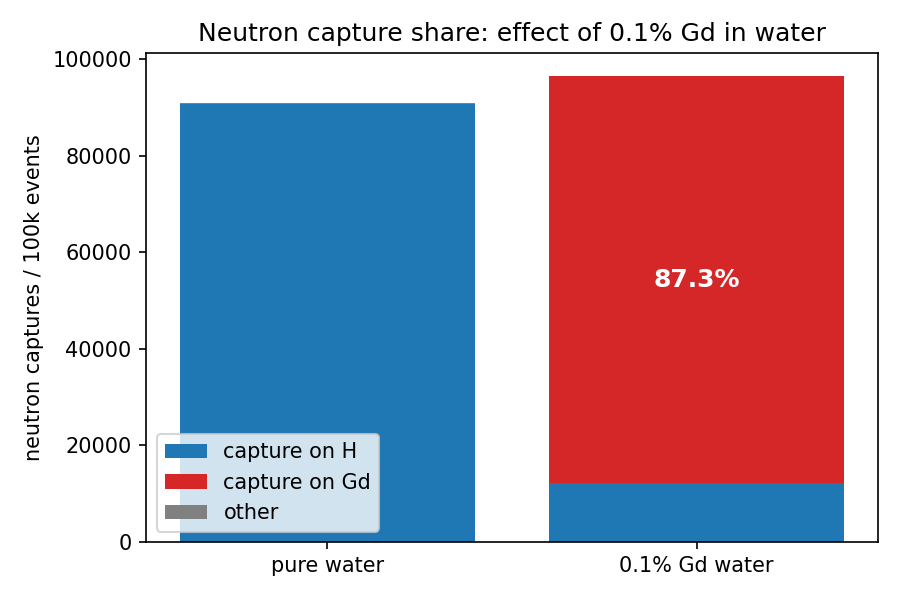
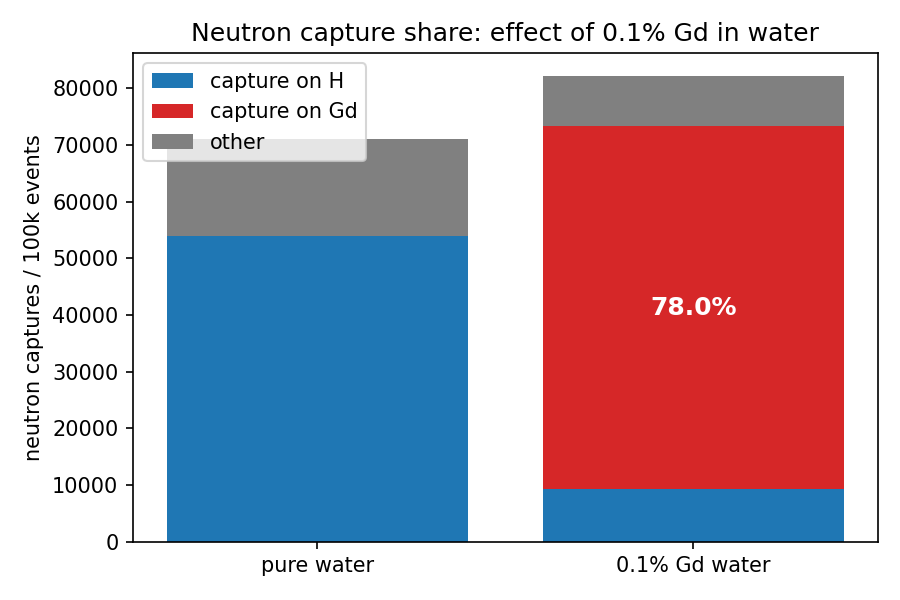
new macros for clean code practices, hardcoded detector information changed to macro

diff --git a/src/NeuDetectorConstruction.cc b/src/NeuDetectorConstruction.cc
@@ -15,9 +15,12 @@
 #include "G4RunManager.hh"
 #include "G4SolidStore.hh"
 #include "G4Sphere.hh"
+#include "G4Tubs.hh"
 #include "G4SystemOfUnits.hh"
 #include "G4UIcommand.hh"
 #include "G4UnitsTable.hh"
+
+#include <algorithm>
 
 NeuDetectorConstruction::NeuDetectorConstruction()
 {
@@ -50,6 +53,11 @@ void NeuDetectorConstruction::DefineMaterials()
   H2O->AddElement(H, natoms = 2);
   H2O->AddElement(O, natoms = 1);
   H2O->GetIonisation()->SetMeanExcitationEnergy(78.0 * eV);
+
+  fSteel = G4NistManager::Instance()->FindOrBuildMaterial("G4_STAINLESS-STEEL");
+  fLiquidArgon = G4NistManager::Instance()->FindOrBuildMaterial("G4_lAr");
+  if (!fLiquidArgon)
+    fLiquidArgon = G4NistManager::Instance()->FindOrBuildMaterial("G4_Ar");
 
   DefineGdMaterial(0.001);
 
@@ -117,10 +125,25 @@ G4VPhysicalVolume* NeuDetectorConstruction::ConstructVolumes()
   G4LogicalVolume* lWorld = new G4LogicalVolume(sWorld, fWorldMat, "World");
   fPWorld = new G4PVPlacement(0, G4ThreeVector(), lWorld, "World", 0, false, 0);
 
-  // absorber: full sphere of fRadius (default 30 cm) of the selected material
-  G4Sphere* sAbsor = new G4Sphere("Absorber", 0., fRadius, 0., twopi, 0., pi);
+  // Simplified GERDA-like water tank. The selected material is applied only
+  // to the water volume; the cryostat remains stainless steel/LAr.
+  G4Tubs* sAbsor = new G4Tubs("WaterTank", 0., fTankRadius, 0.5 * fTankHeight,
+                              0., twopi);
   fLAbsor = new G4LogicalVolume(sAbsor, fMaterial, fMaterial->GetName());
   new G4PVPlacement(0, G4ThreeVector(), fLAbsor, fMaterial->GetName(), lWorld, false, 0);
+
+  const G4double cryostatWall = 1. * cm;
+  G4Tubs* sCryostat = new G4Tubs("Cryostat", 0., fCryostatRadius,
+                                 0.5 * fCryostatHeight, 0., twopi);
+  G4LogicalVolume* lCryostat = new G4LogicalVolume(sCryostat, fSteel, "Cryostat");
+  new G4PVPlacement(0, G4ThreeVector(), lCryostat, "Cryostat", fLAbsor, false, 0);
+
+  G4Tubs* sCryostatLAr = new G4Tubs("CryostatLAr", 0., fCryostatRadius - cryostatWall,
+                                    0.5 * fCryostatHeight - cryostatWall, 0., twopi);
+  G4LogicalVolume* lCryostatLAr =
+    new G4LogicalVolume(sCryostatLAr, fLiquidArgon, "CryostatLAr");
+  new G4PVPlacement(0, G4ThreeVector(), lCryostatLAr, "CryostatLAr",
+                    lCryostat, false, 0);
 
   PrintParameters();
   return fPWorld;
@@ -128,8 +151,12 @@ G4VPhysicalVolume* NeuDetectorConstruction::ConstructVolumes()
 
 void NeuDetectorConstruction::PrintParameters()
 {
-  G4cout << "\n The Absorber is " << G4BestUnit(fRadius, "Length") << " of "
-         << fMaterial->GetName() << "\n \n" << fMaterial << G4endl;
+  G4cout << "\n The water tank is " << G4BestUnit(fTankRadius, "Length")
+         << " radius x " << G4BestUnit(fTankHeight, "Length") << " height of "
+         << fMaterial->GetName() << "\n The cryostat is "
+         << G4BestUnit(fCryostatRadius, "Length") << " radius x "
+         << G4BestUnit(fCryostatHeight, "Length") << " height\n\n"
+         << fMaterial << G4endl;
 }
 
 void NeuDetectorConstruction::SetMaterial(G4String materialChoice)
@@ -164,7 +191,32 @@ void NeuDetectorConstruction::SetGdFraction(G4double fraction)
 
 void NeuDetectorConstruction::SetRadius(G4double value)
 {
+  SetTankRadius(value);
+}
+
+void NeuDetectorConstruction::SetTankRadius(G4double value)
+{
+  fTankRadius = value;
   fRadius = value;
-  fWorldSize = 1.1 * fRadius;
+  fWorldSize = 1.1 * std::max(fTankRadius, 0.5 * fTankHeight);
+  G4RunManager::GetRunManager()->ReinitializeGeometry();
+}
+
+void NeuDetectorConstruction::SetTankHeight(G4double value)
+{
+  fTankHeight = value;
+  fWorldSize = 1.1 * std::max(fTankRadius, 0.5 * fTankHeight);
+  G4RunManager::GetRunManager()->ReinitializeGeometry();
+}
+
+void NeuDetectorConstruction::SetCryostatRadius(G4double value)
+{
+  fCryostatRadius = value;
+  G4RunManager::GetRunManager()->ReinitializeGeometry();
+}
+
+void NeuDetectorConstruction::SetCryostatHeight(G4double value)
+{
+  fCryostatHeight = value;
   G4RunManager::GetRunManager()->ReinitializeGeometry();
 }

diff --git a/src/DetectorMessenger.cc b/src/DetectorMessenger.cc
@@ -29,6 +29,34 @@ DetectorMessenger::DetectorMessenger(NeuDetectorConstruction* Det) : fDetector(D
   fSizeCmd->SetUnitCategory("Length");
   fSizeCmd->AvailableForStates(G4State_PreInit, G4State_Idle);
 
+  fTankRadiusCmd = new G4UIcmdWithADoubleAndUnit("/testhadr/det/setTankRadius", this);
+  fTankRadiusCmd->SetGuidance("Set cylindrical water-tank radius.");
+  fTankRadiusCmd->SetParameterName("radius", false);
+  fTankRadiusCmd->SetRange("radius>0.");
+  fTankRadiusCmd->SetUnitCategory("Length");
+  fTankRadiusCmd->AvailableForStates(G4State_PreInit, G4State_Idle);
+
+  fTankHeightCmd = new G4UIcmdWithADoubleAndUnit("/testhadr/det/setTankHeight", this);
+  fTankHeightCmd->SetGuidance("Set cylindrical water-tank height.");
+  fTankHeightCmd->SetParameterName("height", false);
+  fTankHeightCmd->SetRange("height>0.");
+  fTankHeightCmd->SetUnitCategory("Length");
+  fTankHeightCmd->AvailableForStates(G4State_PreInit, G4State_Idle);
+
+  fCryostatRadiusCmd = new G4UIcmdWithADoubleAndUnit("/testhadr/det/setCryostatRadius", this);
+  fCryostatRadiusCmd->SetGuidance("Set central cryostat outer radius.");
+  fCryostatRadiusCmd->SetParameterName("radius", false);
+  fCryostatRadiusCmd->SetRange("radius>0.");
+  fCryostatRadiusCmd->SetUnitCategory("Length");
+  fCryostatRadiusCmd->AvailableForStates(G4State_PreInit, G4State_Idle);
+
+  fCryostatHeightCmd = new G4UIcmdWithADoubleAndUnit("/testhadr/det/setCryostatHeight", this);
+  fCryostatHeightCmd->SetGuidance("Set central cryostat height.");
+  fCryostatHeightCmd->SetParameterName("height", false);
+  fCryostatHeightCmd->SetRange("height>0.");
+  fCryostatHeightCmd->SetUnitCategory("Length");
+  fCryostatHeightCmd->AvailableForStates(G4State_PreInit, G4State_Idle);
+
   fGdFractionCmd = new G4UIcmdWithADouble("/testhadr/det/setGdFraction", this);
   fGdFractionCmd->SetGuidance("Set natural Gd mass fraction in water (0 to 1).");
   fGdFractionCmd->SetParameterName("fraction", false);
@@ -71,6 +99,10 @@ DetectorMessenger::~DetectorMessenger()
 {
   delete fMaterCmd;
   delete fSizeCmd;
+  delete fTankRadiusCmd;
+  delete fTankHeightCmd;
+  delete fCryostatRadiusCmd;
+  delete fCryostatHeightCmd;
   delete fGdFractionCmd;
   delete fIsotopeCmd;
   delete fDetDir;
@@ -84,6 +116,18 @@ void DetectorMessenger::SetNewValue(G4UIcommand* command, G4String newValue)
   }
   if (command == fSizeCmd) {
     fDetector->SetRadius(fSizeCmd->GetNewDoubleValue(newValue));
+  }
+  if (command == fTankRadiusCmd) {
+    fDetector->SetTankRadius(fTankRadiusCmd->GetNewDoubleValue(newValue));
+  }
+  if (command == fTankHeightCmd) {
+    fDetector->SetTankHeight(fTankHeightCmd->GetNewDoubleValue(newValue));
+  }
+  if (command == fCryostatRadiusCmd) {
+    fDetector->SetCryostatRadius(fCryostatRadiusCmd->GetNewDoubleValue(newValue));
+  }
+  if (command == fCryostatHeightCmd) {
+    fDetector->SetCryostatHeight(fCryostatHeightCmd->GetNewDoubleValue(newValue));
   }
   if (command == fGdFractionCmd) {
     fDetector->SetGdFraction(fGdFractionCmd->GetNewDoubleValue(newValue));

diff --git a/src/NeuSteppingAction.cc b/src/NeuSteppingAction.cc
@@ -4,7 +4,12 @@
 #include "HistoManager.hh"
 
 #include "G4AnalysisManager.hh"
+#include "G4Event.hh"
+#include "G4EventManager.hh"
+#include "G4LogicalVolume.hh"
 #include "G4RunManager.hh"
+#include "G4SystemOfUnits.hh"
+#include "G4VPhysicalVolume.hh"
 
 NeuSteppingAction::NeuSteppingAction(NeuEventAction* event) : fEventAction(event) {}
 NeuSteppingAction::~NeuSteppingAction() {}
@@ -20,6 +25,10 @@ void NeuSteppingAction::UserSteppingAction(const G4Step* aStep)
   // count neutron captures by target element:
   // the residual nucleus (Z=64 excited Gd, Z=1 deuteron, ...) is a secondary of the step
   if (process && process->GetProcessName() == "nCapture") {
+    const auto& touchable = aStep->GetPreStepPoint()->GetTouchableHandle();
+    const auto* volume = touchable ? touchable->GetVolume() : nullptr;
+    run->RecordCaptureVolume(volume ? volume->GetName() : "Unknown");
+
     const G4double captureLength = aStep->GetTrack()->GetTrackLength();
     run->RecordCaptureLength(captureLength);
     run->RecordCaptureTime(aStep->GetTrack()->GetGlobalTime());
@@ -44,6 +53,29 @@ void NeuSteppingAction::UserSteppingAction(const G4Step* aStep)
         }
       }
     }
+    const G4ThreeVector position = aStep->GetPostStepPoint()->GetPosition();
+    const auto* logicalVolume = volume ? volume->GetLogicalVolume() : nullptr;
+    const G4String materialName =
+      logicalVolume && logicalVolume->GetMaterial()
+        ? logicalVolume->GetMaterial()->GetName()
+        : "Unknown";
+    const auto* event = G4EventManager::GetEventManager()->GetConstCurrentEvent();
+    auto* analysis = G4AnalysisManager::Instance();
+    analysis->FillNtupleIColumn(0, event ? event->GetEventID() : -1);
+    analysis->FillNtupleSColumn(1, volume ? volume->GetName() : "Unknown");
+    analysis->FillNtupleSColumn(2, materialName);
+    analysis->FillNtupleIColumn(3, Z);
+    analysis->FillNtupleIColumn(4, A);
+    analysis->FillNtupleDColumn(5, position.x() / cm);
+    analysis->FillNtupleDColumn(6, position.y() / cm);
+    analysis->FillNtupleDColumn(7, position.z() / cm);
+    analysis->FillNtupleDColumn(8, position.mag() / cm);
+    analysis->FillNtupleDColumn(9, aStep->GetTrack()->GetGlobalTime() / microsecond);
+    analysis->FillNtupleDColumn(10, captureLength / cm);
+    analysis->FillNtupleDColumn(11, gammaEnergy / MeV);
+    analysis->FillNtupleIColumn(12, gammaMultiplicity);
+    analysis->AddNtupleRow();
+
     const G4String isotope = "Z" + std::to_string(Z) + "A" + std::to_string(A);
     run->CountCapture(Z, A);
     run->RecordCaptureLengthByIsotope(isotope, captureLength);

diff --git a/src/Run.cc b/src/Run.cc
@@ -55,6 +55,11 @@ void Run::CountCapture(G4int Z, G4int A)
   ++fCaptureIsotopes[isotope];
 }
 
+void Run::RecordCaptureVolume(const G4String& volume)
+{
+  ++fCaptureVolumes[volume];
+}
+
 void Run::RecordCaptureLengthByIsotope(const G4String& isotope, G4double length)
 {
   auto& stats = fCaptureLengthByIsotope[isotope];
@@ -203,6 +208,8 @@ void Run::Merge(const G4Run* run)
     fContainmentHistogram[i] += localRun->fContainmentHistogram[i];
   for (const auto& isotope : localRun->fCaptureIsotopes)
     fCaptureIsotopes[isotope.first] += isotope.second;
+  for (const auto& volume : localRun->fCaptureVolumes)
+    fCaptureVolumes[volume.first] += volume.second;
   for (const auto& isotope : localRun->fCaptureLengthByIsotope) {
     auto& stats = fCaptureLengthByIsotope[isotope.first];
     stats.count += isotope.second.count;
@@ -313,6 +320,13 @@ void Run::EndOfRun()
          << "   escape probability = "
          << 100. * fEscapedNeutrons / (numberOfEvent > 0 ? numberOfEvent : 1)
          << " %" << G4endl;
+
+  G4cout << "\n Capture volumes :" << G4endl;
+  for (const auto& volume : fCaptureVolumes) {
+    G4cout << " capture_volume " << volume.first << " " << volume.second
+           << " " << 100. * volume.second / (nCap > 0 ? nCap : 1)
+           << " %" << G4endl;
+  }
 
   G4cout << "\n Capture isotopes :" << G4endl;
   for (const auto& isotope : fCaptureIsotopes)

diff --git a/src/HistoManager.cc b/src/HistoManager.cc
@@ -60,4 +60,20 @@ void HistoManager::Book()
     G4int ih = analysisManager->CreateH1(id[k], title[k], nbins, vmin, vmax);
     analysisManager->SetH1Activation(ih, false);
   }
+
+  analysisManager->CreateNtuple("capture", "One row per neutron capture");
+  analysisManager->CreateNtupleIColumn("event_id");
+  analysisManager->CreateNtupleSColumn("volume");
+  analysisManager->CreateNtupleSColumn("material");
+  analysisManager->CreateNtupleIColumn("target_z");
+  analysisManager->CreateNtupleIColumn("target_a");
+  analysisManager->CreateNtupleDColumn("x_cm");
+  analysisManager->CreateNtupleDColumn("y_cm");
+  analysisManager->CreateNtupleDColumn("z_cm");
+  analysisManager->CreateNtupleDColumn("radius_cm");
+  analysisManager->CreateNtupleDColumn("time_us");
+  analysisManager->CreateNtupleDColumn("path_length_cm");
+  analysisManager->CreateNtupleDColumn("gamma_energy_mev");
+  analysisManager->CreateNtupleIColumn("gamma_multiplicity");
+  analysisManager->FinishNtuple();
 }

diff --git a/README.md b/README.md
@@ -5,10 +5,11 @@ demonstrate that doping water with **0.1% gadolinium by mass raises the fraction
 of neutron captures occurring on Gd to ~90%** — the basis of neutron tagging in
 large water Cherenkov neutron vetoes.
 
-The geometry and physics follow the original LEGEND-1000 study setup:
-a 30 cm-radius spherical water absorber, pressurized water (593 K, 150 bar)
-with thermal-scattering hydrogen (`TS_H_of_Water`), and a modular HP physics
-list (QGSP_BIC_HP + elastic HP).
+The geometry is a simplified GERDA-like setup: a 10 m diameter x 9 m high
+cylindrical water tank containing a central stainless-steel cryostat and liquid
+argon inner volume. The water uses pressurized water (593 K, 150 bar) with
+thermal-scattering hydrogen (`TS_H_of_Water`) and a modular HP physics list
+(QGSP_BIC_HP + elastic HP).
 
 ## Physics claim
 
@@ -195,7 +196,10 @@ Key macro commands:
 ```
 /testhadr/det/setMat WaterGd_ts   # absorber material (Water_ts, HeavyWater,
                                   # graphite, NE213, or any NIST / isotope name)
-/testhadr/det/setRadius 30 cm     # sphere radius
+/testhadr/det/setTankRadius 5 m   # cylindrical water-tank radius
+/testhadr/det/setTankHeight 9 m   # cylindrical water-tank height
+/testhadr/det/setCryostatRadius 1.5 m
+/testhadr/det/setCryostatHeight 3 m
 /testhadr/det/setIsotopeMat Li7 3 7 1.85 g/cm3   # build single-isotope material
 /gun/particle neutron
 /gun/energy 2.5 MeV
@@ -259,10 +263,11 @@ doped run; the "particles at creation" table in the log lists them by name.
 
 ## How it works
 
-- **Geometry** (`src/NeuDetectorConstruction.cc`): world box of side
-  1.1 × radius filled with "Galactic" vacuum; absorber is a full sphere
-  (default 30 cm) whose material can be swapped at run time via
-  `/testhadr/det/setMat`.
+- **Geometry** (`src/NeuDetectorConstruction.cc`): a simplified GERDA-like
+  cylindrical water tank (10 m diameter x 9 m high) contains a central
+  stainless-steel cryostat with a liquid-argon inner volume. The water
+  material can be swapped at run time via `/testhadr/det/setMat`; Gd doping
+  applies to the water volume only.
 - **Materials**: `Water_ts` (pressurized water, thermal-scattering hydrogen),
   `WaterGd_ts` (0.1 wt% natural Gd — natural Gd is 14.8% Gd-155 and 15.65%
   Gd-157, whose capture cross sections are ~61 kbarn and ~254 kbarn), D₂O,
@@ -276,14 +281,17 @@ doped run; the "particles at creation" table in the log lists them by name.
 - **Capture counting** (`src/NeuSteppingAction.cc`): every step whose process
   is `nCapture` hands the residual nucleus (a secondary of the step) to
   `Run::CountCapture`; the end-of-run report splits captures into H / Gd /
-  other and prints the Gd share.
+  other and prints the Gd share. The same step is saved to the `capture`
+  ROOT ntuple with event ID, volume, material, target isotope, position,
+  radius, time, path length, and capture-gamma information.
 
 ## Output
 
 - Console: process-call frequencies, capture summary (the headline number),
   energy deposit/leakage means, particle creation and emergence tables.
 - `<file>.root`: Geant4 histograms, including capture path length, capture
-  time, and capture radius. Browse with `root <file>.root` and `TBrowser b`.
+  time, and capture radius. It also contains the `capture` ntuple with one row
+  per neutron capture. Browse with `root <file>.root` and `TBrowser b`.
 - `gd_capture_share.png` and `capture_length_comparison.png`: comparison plots
   from the standalone plotting scripts.
 
